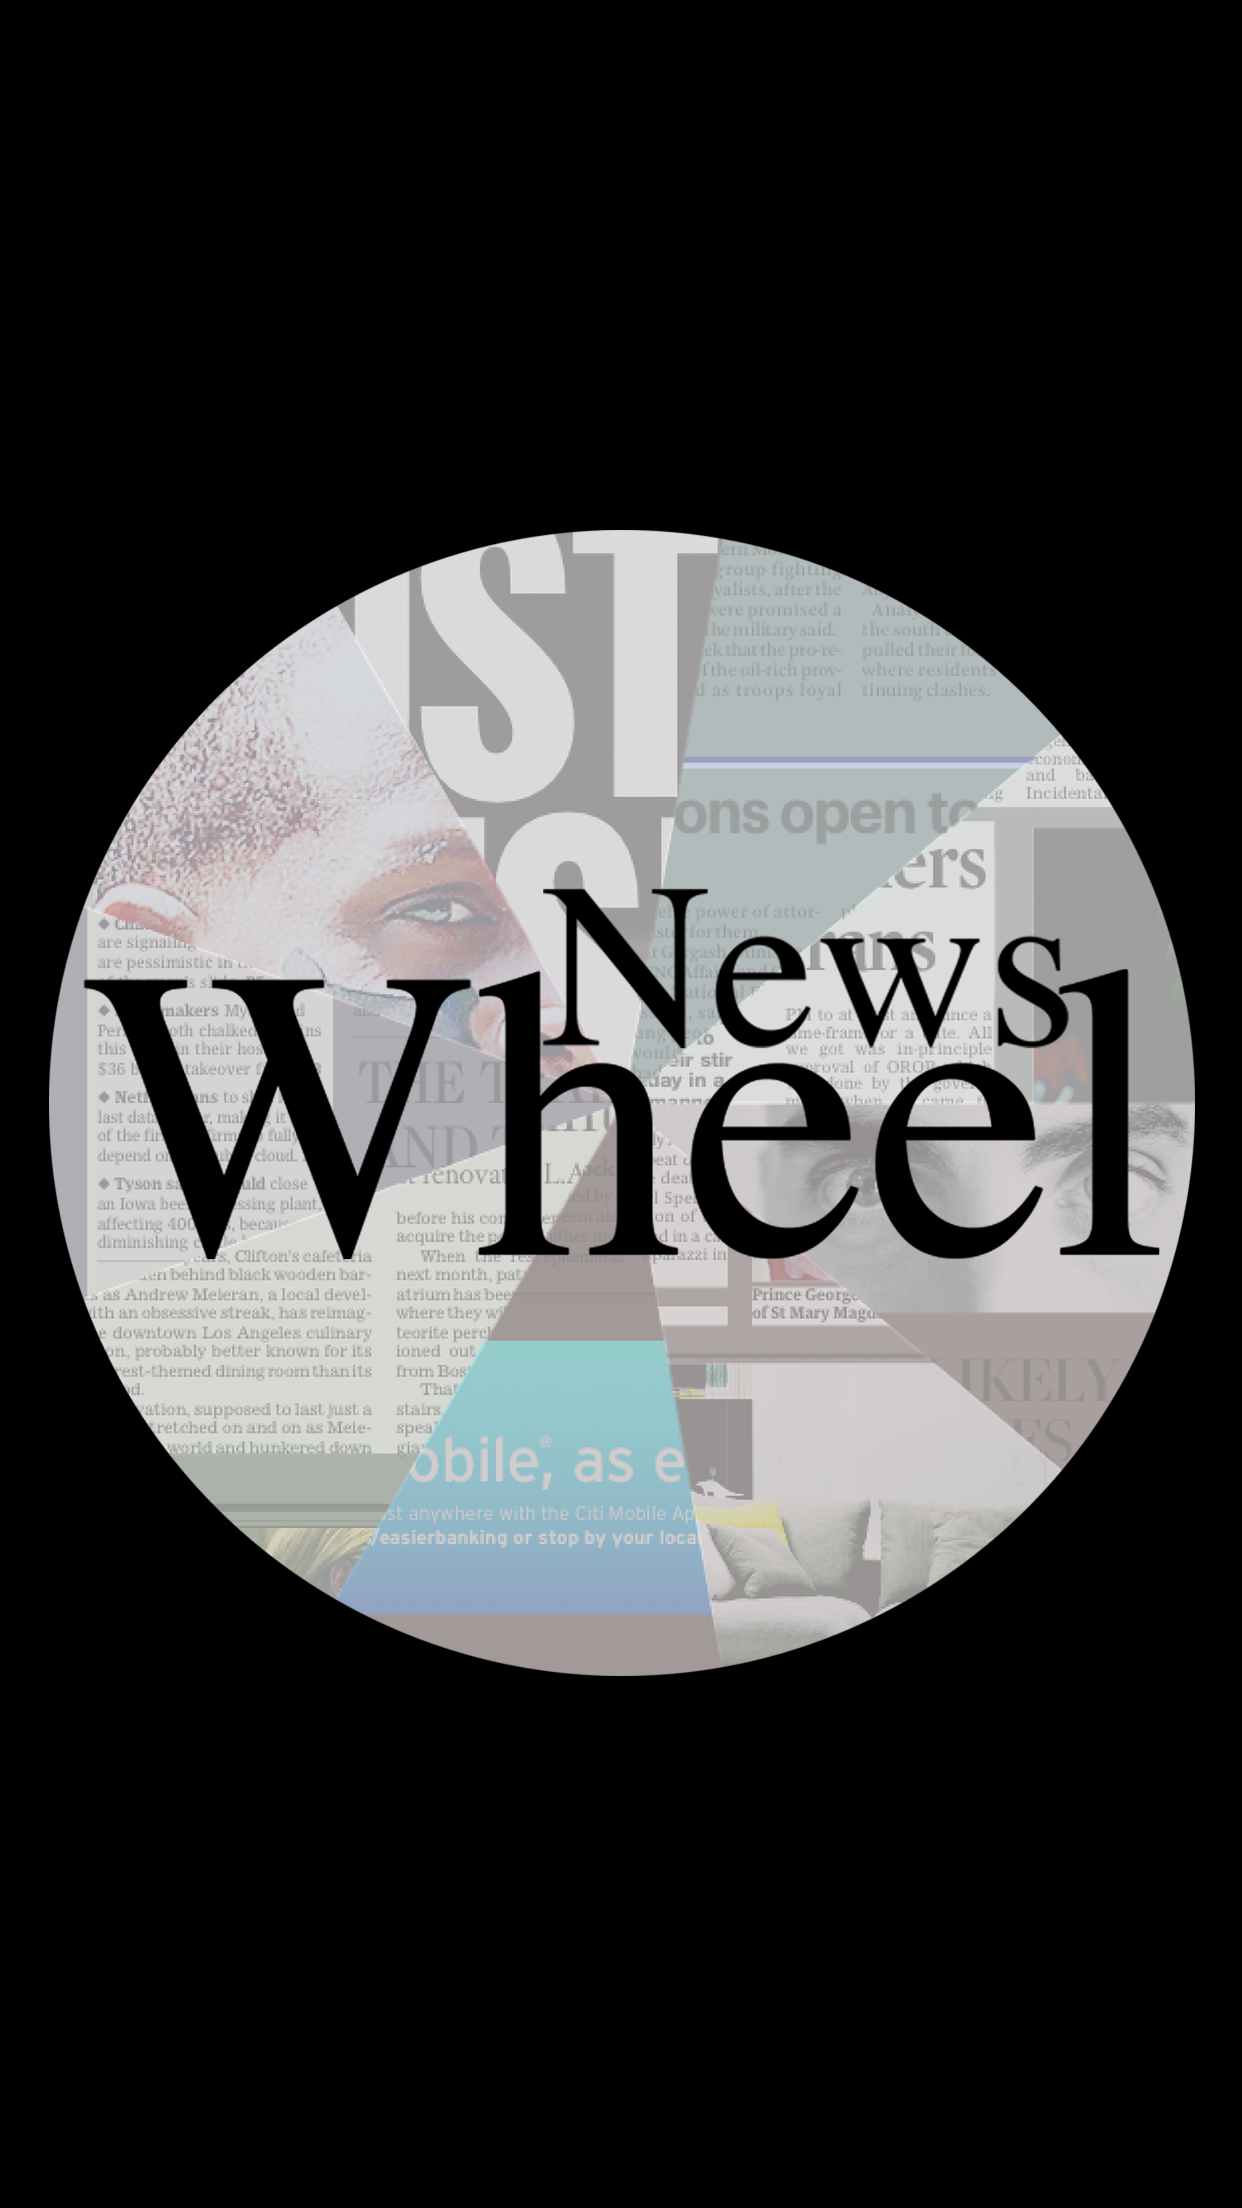
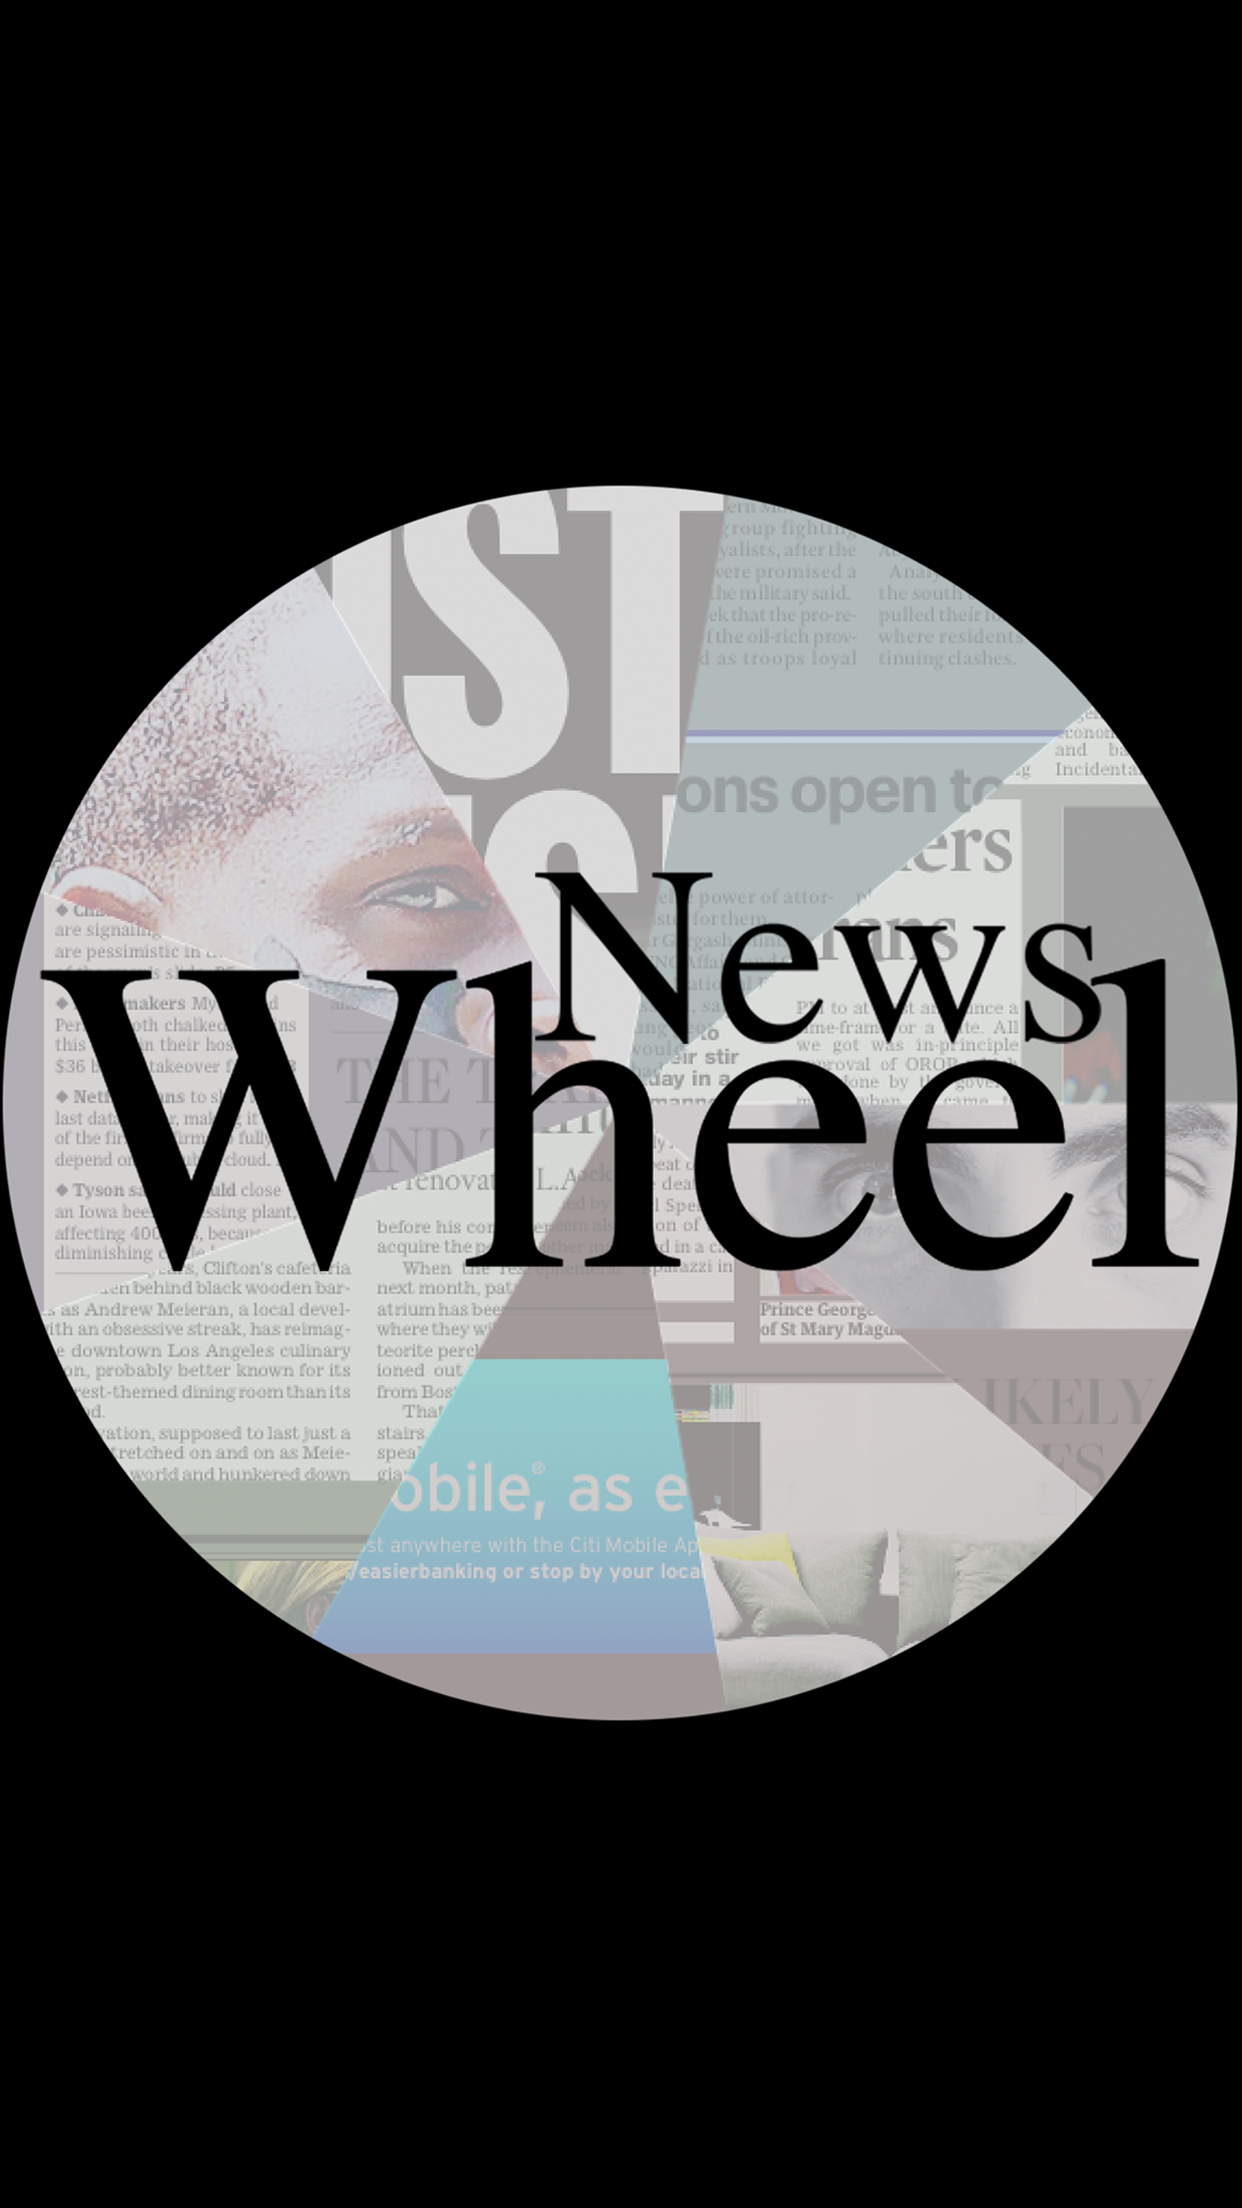
update launch images and reposition in start screen

Changed region(s): [[0.0, 0.2188, 1.0, 0.7812]]

diff --git a/jody/info.html b/jody/info.html
@@ -4,13 +4,15 @@
 <head>
 
 <title>News Wheel Info</title>
-<link rel="stylesheet" type="text/css" href="style.css">
+<!--<link rel="stylesheet" type="text/css" href="style.css">-->
 <meta name="viewport" content="width=device-width">
 <meta name="viewport" content="width=device-width, initial-scale=1.0">
 </head>
 <body style="background-color:black">
-<font face="Arial" size="2">
+<font face="Arial">
 
+
+<div style="font-size:4px">
 <br>
 
 <font color=white><center>News Wheel</center></font><br><br>
@@ -60,10 +62,6 @@ Tap Share to save a screenshot to our <a href="http://www.newswheel.info" style=
 
 
 </div>
-
-
-
-<div></div>
 
 </body>
 </html>

diff --git a/jody/WebViewController.m b/jody/WebViewController.m
@@ -27,13 +27,12 @@
     [self.webView setOpaque:NO];
     
     FontManager* fontManager = [FontManager sharedManager];
-    
     int fontSize = fontManager.infoScreenFontSize;
-    self.xButton.titleLabel.font=[UIFont fontWithName:@"Arial" size:fontSize+2];
-
+    self.xButton.titleLabel.font=[UIFont fontWithName:@"Arial" size:fontSize];
     
     NSString *htmlFile = [[NSBundle mainBundle] pathForResource:@"info" ofType:@"html"];
-    self.infoHtml = [NSString stringWithContentsOfFile:htmlFile encoding:NSUTF8StringEncoding error:nil];
+    NSString *htmlString = [NSString stringWithContentsOfFile:htmlFile encoding:NSUTF8StringEncoding error:nil];
+    self.infoHtml = [htmlString stringByReplacingOccurrencesOfString: @"font-size:4px" withString:[NSString stringWithFormat:@"font-size:%dpx",fontSize]];
     [self.webView loadHTMLString:self.infoHtml baseURL:nil];
 }
 

diff --git a/jody/StartViewController.m b/jody/StartViewController.m
@@ -5,6 +5,7 @@
 //  Created by Z Sweedyk on 8/5/15.
 //  Copyright (c) 2015 Z Sweedyk. All rights reserved.
 //
+#import "FontManager.h"
 #import "SourceManager.h"
 #import "StartViewController.h"
 #import "constants.h"
@@ -32,16 +33,13 @@
     [[UIApplication sharedApplication] setStatusBarHidden:YES
                                             withAnimation:UIStatusBarAnimationFade];
     
-     self.navigationController.navigationBarHidden=YES;
+    self.navigationController.navigationBarHidden=YES;
     self.sourceManager = [SourceManager sharedManager];
     self.sourceManager.delegate = self;
-
-    
 }
 
 - (void)viewDidAppear:(BOOL)animated
 {
-
     if (!self.sourceManager.sourcesUpToDate) {
         [self.sourceManager getSources];
     }

diff --git a/jody/constants.h b/jody/constants.h
@@ -19,6 +19,19 @@ enum {
     IPAD_MINI = 5
 };
 
+
+enum {
+    NYTIMES=0,
+    WASHINGTONPOST=1,
+    GUARDIAN=2,
+    LATIMES=3,
+    WALLSTREETJOURNAL=4,
+    NYPOST=5,
+    NYDAILYNEWS=6,
+    ASIANAGE=7,
+    NATIONAL=8
+};
+
 FOUNDATION_EXPORT int const kSourceCount;
 FOUNDATION_EXPORT int const kPDFWidth;
 FOUNDATION_EXPORT int const kPDFHeight;
@@ -29,5 +42,6 @@ FOUNDATION_EXPORT int const kChainFontSize[6];
 FOUNDATION_EXPORT int const kStartScreenSmallFontSize[6];
 FOUNDATION_EXPORT int const kStartScreenLargeFontSize[6];
 FOUNDATION_EXPORT int const kInfoScreenFontSize[6];
+FOUNDATION_EXPORT int const kToolBarFontSize[6];
 
 #endif

diff --git a/jody/MainViewController.m b/jody/MainViewController.m
@@ -76,7 +76,7 @@ enum {
         colorWheelFrameSize +=-1;
     }
     CGFloat leftX= (myFrame.size.width - colorWheelFrameSize)/2.0;
-    CGFloat topY = (myFrame.size.height-colorWheelFrameSize)/2.0;
+    CGFloat topY = (myFrame.size.height-self.navigationController.toolbar.frame.size.height-colorWheelFrameSize)/2.0;
     CGRect colorWheelFrame = CGRectMake(leftX, topY, colorWheelFrameSize, colorWheelFrameSize);
     
     // create background view
